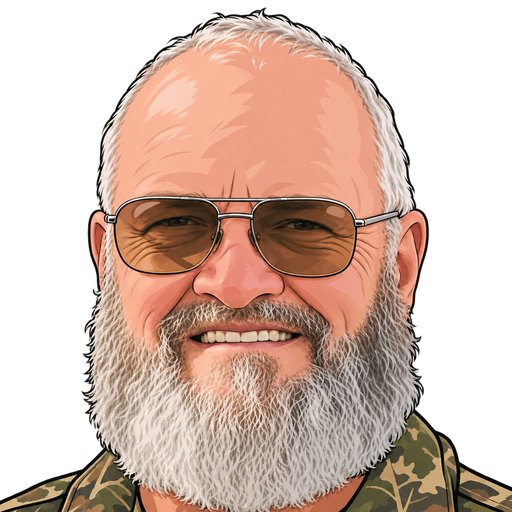
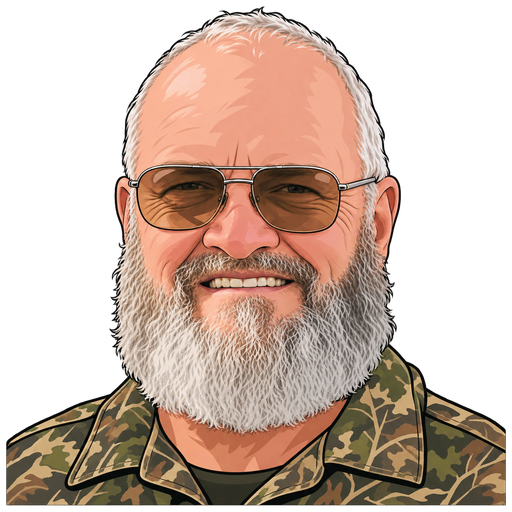
Morris Mayhem: show full cutout portraits instead of circles
Claude-Session: https://claude.ai/code/session_01RfvCk8BiTKNajYvhD14yr3

diff --git a/morris-mayhem/src/js/render.js b/morris-mayhem/src/js/render.js
@@ -94,15 +94,11 @@ window.MM = window.MM || {};
     const im = MM.photos[def.id];
     ctx.save();
     if (im && im.complete && im.naturalWidth) {
-      ctx.beginPath(); ctx.arc(x, y, r, 0, TAU); ctx.closePath();
-      ctx.save(); ctx.clip();
-      ctx.fillStyle = opts.color || def.color; ctx.fillRect(x - r, y - r, r * 2, r * 2);
-      const k = Math.max((r * 2) / im.naturalWidth, (r * 2) / im.naturalHeight);
+      // full cutout portrait (head and shoulders), no circle
+      const k = Math.min((r * 2.3) / im.naturalWidth, (r * 2.3) / im.naturalHeight);
       const w = im.naturalWidth * k, h = im.naturalHeight * k;
       if (opts.flip) { ctx.translate(x, 0); ctx.scale(-1, 1); ctx.translate(-x, 0); }
       ctx.drawImage(im, x - w / 2, y - h / 2, w, h);
-      ctx.restore();
-      ctx.lineWidth = Math.max(2, r * 0.1); ctx.strokeStyle = opts.outline || '#1b1b2a'; ctx.stroke();
     } else {
       // cartoon placeholder face
       ctx.fillStyle = def.skin || '#e8b48a';
@@ -128,9 +124,8 @@ window.MM = window.MM || {};
     const c = document.createElement('canvas'); c.width = c.height = size;
     const g = c.getContext('2d');
     const im = MM.photos[def.id];
-    if (im && im.complete && im.naturalWidth) { // artwork portraits already have shoulders: show the whole picture
-      g.fillStyle = def.color; g.beginPath(); g.arc(size / 2, size / 2, size / 2, 0, TAU); g.fill();
-      g.save(); g.beginPath(); g.arc(size / 2, size / 2, size / 2 - 3, 0, TAU); g.clip(); g.drawImage(im, 0, 0, size, size); g.restore();
+    if (im && im.complete && im.naturalWidth) { // artwork portraits: the full cutout, no circle
+      g.drawImage(im, 0, 0, size, size);
       return c.toDataURL();
     }
     g.fillStyle = def.color; g.beginPath(); g.arc(size / 2, size * 1.05, size * 0.48, 0, TAU); g.fill();
@@ -368,7 +363,7 @@ window.MM = window.MM || {};
       g.fillStyle = 'rgba(26,11,46,.82)'; rr(g, x, y0, cw, chh, 14); g.fill();
       g.strokeStyle = MM.PLAYER_COLORS[f.slot]; g.lineWidth = 3; g.stroke();
       const r = chh * 0.36;
-      g.fillStyle = f.color; g.beginPath(); g.arc(x + r + 10, y0 + chh / 2, r + 3, 0, TAU); g.fill();
+      if (!f.def.photo) { g.fillStyle = f.color; g.beginPath(); g.arc(x + r + 10, y0 + chh / 2, r + 3, 0, TAU); g.fill(); }
       MM.drawHead(g, f.def, x + r + 10, y0 + chh / 2, r, { hurt: f.hitstun > 0 });
       const tx = x + r * 2 + 22;
       g.fillStyle = '#fff'; g.textAlign = 'left'; g.textBaseline = 'top';
